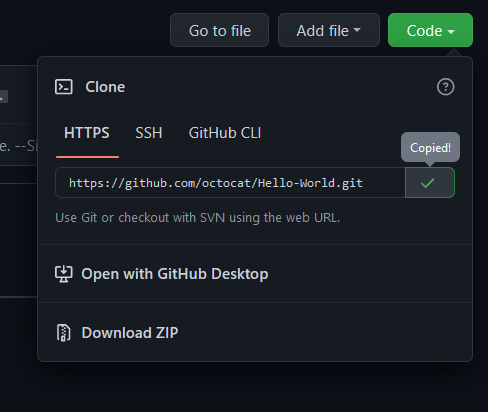
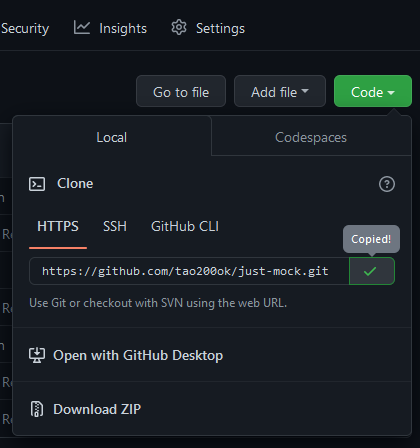
chore: Update docs

diff --git a/docs/CONTRIBUTING.md b/docs/CONTRIBUTING.md
@@ -5,7 +5,7 @@ The first thing to do is create a personal copy of the project in your GitHub ac
 
 ![image showing ‘Fork’ button](./assets/fork.png)
 
-Make sure to only fork the dev branch. Confirm that this box is checked when creating your fork.
+Make sure to only fork the `dev` branch. Confirm that this box is checked when creating your fork.
 
 ![image showing box to check](./assets/fork2.png)
 
@@ -14,17 +14,15 @@ Make sure to only fork the dev branch. Confirm that this box is checked when cre
  
 ![image](./assets/copy2.png)
 
-Go to your terminal and run:
+Go to your terminal and run `git clone` with the link you copied.
 
-	git clone [link you copied]
+Like so:
 
-Example:
-
-	git clone https://github.com/octocat/just-mock
+	git clone https://github.com/YOUR_NAME/just-mock
 
 Since there will be several work by other developers going on at the same time, your local copy should be updated frequently. To set that up, run this command to connect your local copy to the original repository:
 
-		git remote add upstream https://github.com/tao200ok/just-mock.git
+	git remote add upstream https://github.com/tao200ok/just-mock.git
 <br/>
 
 >NOTE: Nodejs and npm are required to continue following this guide.
@@ -38,12 +36,12 @@ Since there will be several work by other developers going on at the same time, 
 
 To complete your set up,  use these commands to navigate to the project directory and install its dependencies:
 
-		cd just-mock
-		npm install
+	cd just-mock
+	npm install
 
 Start the local development server:
 
-        npm start
+    npm start
 
 Finally, open your browser and visit [http://localhost:3000](http://localhost:3000) to explore the app.
 
@@ -70,17 +68,17 @@ Great! Now you can start making and committing changes on the new branch.
 ### Make your commits
 It is good practice to make regular commits as you work on your feature.
 
-		git commit -m "message"
+	git commit -m "message"
 
 Commit messages should be concise and follow a format similar to the above:
 For example,
 
-		git commit -m "feat: add validation to login form"
+	git commit -m "feat: add validation to login form"
 to commit changes made to add a new feature in the login form.
 
 Tip: Update your local copy at intervals to keep in sync with the original repository.
 
-		git pull upstream
+	git pull upstream
 		
 ## Submit your contribution
 To get your contribution merged to the original repository, create and submit a pull request. After pushing your changes to your Github, follow the steps below.
